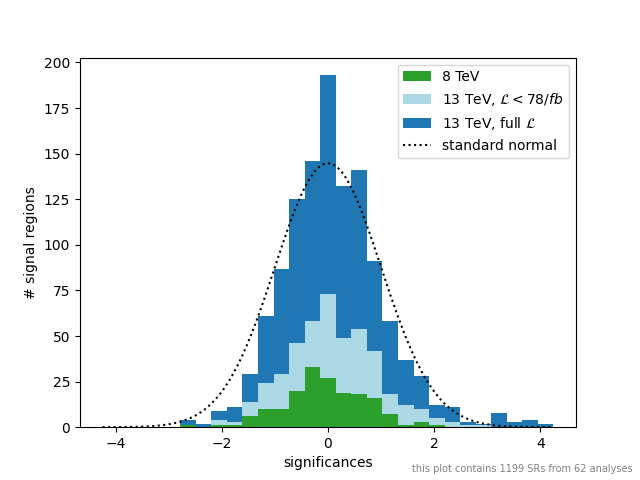
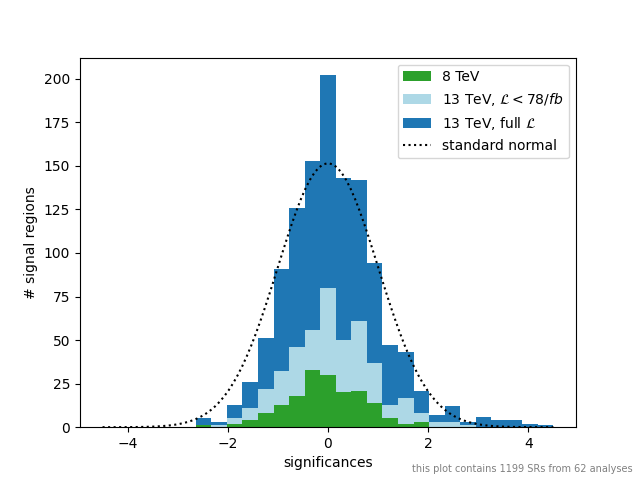
-hino not counted

diff --git a/docs/ListOfAnalysesWithSuperseded.md b/docs/ListOfAnalysesWithSuperseded.md
@@ -1,16 +1,16 @@
 # List Of Analyses 3.0.0 (including superseded and fastlim results)
-List of analyses and topologies in the SMS results database, comprising 7736 individual maps from 1529 distinct signal regions, 130 different SMS topologies, from a total of 158 analyses.
+List of analyses and topologies in the SMS results database, comprising 7736 individual maps from 1529 distinct signal regions, 130 different SMS topologies, from a total of 157 analyses.
 The list has been created from the database version `3.0.0.`
 Results from FastLim are included. There is also an  [sms dictionary](SmsDictionary) and a [validation page](Validation).
 Link to list of results [without superseded and fastlim results](ListOfAnalyses).
 
-<p align='center'><img src='../validation//significancesiss.png?1724172391.4390008' alt='plot of significances' width='400' /><br><sub>Plot: Significances with respect to the Standard Model hypothesis, for all signal regions in the database. A standard normal distribution is expected if no new physics is in the data. New physics would manifest itself as an overabundance of large (positive) significances.</sub></p>
+<p align='center'><img src='../validation//significancesiss.png?1726838792.457956' alt='plot of significances' width='400' /><br><sub>Plot: Significances with respect to the Standard Model hypothesis, for all signal regions in the database. A standard normal distribution is expected if no new physics is in the data. New physics would manifest itself as an overabundance of large (positive) significances.</sub></p>
 
 ## Stats by run, experiment, type
 
 ### Run 2 - 13 TeV
-In total, we have results from 46 ATLAS and 55 CMS 13 TeV searches.
- * [ATLAS efficiency maps](#ATLAS13): 29 analyses, 94 (of which 14 LLP) results, 1197 individual maps
+In total, we have results from 45 ATLAS and 55 CMS 13 TeV searches.
+ * [ATLAS efficiency maps](#ATLAS13): 28 analyses, 94 (of which 14 LLP) results, 1197 individual maps
  * [ATLAS upper limits](#ATLAS13): 40 analyses, 97 (of which 4 LLP) results
  * [CMS efficiency maps](#CMS13): 11 analyses, 62 results, 3555 individual maps
  * [CMS upper limits](#CMS13): 51 analyses, 199 (of which 3 LLP) results
@@ -23,7 +23,7 @@ In total, we have results from 34 ATLAS and 23 CMS 8 TeV searches.
  * [CMS upper limits](#CMS8): 21 analyses, 70 (of which 3 LLP) results
 
 <a name="ATLAS13"></a>
-## ATLAS, 13 TeV (46 analyses)
+## ATLAS, 13 TeV (45 analyses)
 
 | **ID** | **short description** | **L [1/fb]** | **Tx names** | **superseded by** | **obs. ULs** | **exp. ULs [(1)](#A1)** | **EMs** | **SR comb. [(2)](#A2)** |
 |--------|-----------------------|--------------|--------------|-------------------|--------------|-------------------------|---------|-------------------------|
@@ -42,15 +42,14 @@ In total, we have results from 34 ATLAS and 23 CMS 8 TeV searches.
 | [ATLAS-SUSY-2018-23](https://atlas.web.cern.ch/Atlas/GROUPS/PHYSICS/PAPERS/SUSY-2018-23/)<a name="ATLAS-SUSY-2018-23"></a> | W h(gamma gamma), EWK | 139.0 | [TChiHH](SmsDictionary#TChiHH), [TChiWH](SmsDictionary#TChiWH) | | &#10004; | &#10004; |  |  |
 | [ATLAS-SUSY-2018-22](https://atlas.web.cern.ch/Atlas/GROUPS/PHYSICS/PAPERS/SUSY-2018-22/)<a name="ATLAS-SUSY-2018-22"></a> | multi-jets | 139.0 | [T1](SmsDictionary#T1), [T2](SmsDictionary#T2), [T5WW](SmsDictionary#T5WW), [T5WWoff](SmsDictionary#T5WWoff), [T6WW](SmsDictionary#T6WW), [T6WWoff](SmsDictionary#T6WWoff) | | &#10004; | &#10004; | &#10004; | json |
 | [ATLAS-SUSY-2018-16](https://atlas.web.cern.ch/Atlas/GROUPS/PHYSICS/PAPERS/SUSY-2018-16/)<a name="ATLAS-SUSY-2018-16"></a> | 2 soft l + jets, EWK | 139.0 | [TChiWZoff](SmsDictionary#TChiWZoff), [TSlepSlep](SmsDictionary#TSlepSlep) | | &#10004; | &#10004; | &#10004; | json |
-| [ATLAS-SUSY-2018-16-hino](https://atlas.web.cern.ch/Atlas/GROUPS/PHYSICS/PAPERS/SUSY-2018-16/)<a name="ATLAS-SUSY-2018-16-hino"></a> | 2 soft l + jets, EWK (hino) | 139.0 | [TChiWWoff](SmsDictionary#TChiWWoff), [TChiWZoff](SmsDictionary#TChiWZoff), [TChiZoff](SmsDictionary#TChiZoff) | |  |  | &#10004; |  |
 | [ATLAS-SUSY-2018-14](https://atlas.web.cern.ch/Atlas/GROUPS/PHYSICS/PAPERS/SUSY-2018-14/)<a name="ATLAS-SUSY-2018-14"></a> | displaced vertices | 139.0 | [TSelSelDisp](SmsDictionary#TSelSelDisp), [TSmuSmuDisp](SmsDictionary#TSmuSmuDisp), [TStauStauDisp](SmsDictionary#TStauStauDisp) | |  |  | &#10004; | json |
 | [ATLAS-SUSY-2018-13](https://atlas.web.cern.ch/Atlas/GROUPS/PHYSICS/PAPERS/SUSY-2018-13/)<a name="ATLAS-SUSY-2018-13"></a> | displaced jets | 139.0 | [TRPV1jjj](SmsDictionary#TRPV1jjj), [TRPVChijjj](SmsDictionary#TRPVChijjj) | |  |  | &#10004; | SLv1 |
 | [ATLAS-SUSY-2018-12](https://atlas.web.cern.ch/Atlas/GROUPS/PHYSICS/PAPERS/SUSY-2018-12/)<a name="ATLAS-SUSY-2018-12"></a> | 0 l + jets | 139.0 | [T2bbffff](SmsDictionary#T2bbffff), [T2tt](SmsDictionary#T2tt), [T2ttoff](SmsDictionary#T2ttoff) | | &#10004; | &#10004; | &#10004; |  |
 | [ATLAS-SUSY-2018-10](https://atlas.web.cern.ch/Atlas/GROUPS/PHYSICS/PAPERS/SUSY-2018-10/)<a name="ATLAS-SUSY-2018-10"></a> | 1 l + jets | 139.0 | [T5WW](SmsDictionary#T5WW), [T5WWoff](SmsDictionary#T5WWoff), [T6WW](SmsDictionary#T6WW), [T6WWoff](SmsDictionary#T6WWoff) | | &#10004; | &#10004; | &#10004; |  |
 | [ATLAS-SUSY-2018-09](https://atlas.web.cern.ch/Atlas/GROUPS/PHYSICS/PAPERS/SUSY-2018-09/)<a name="ATLAS-SUSY-2018-09"></a> | 2 SS l | 139.0 | [T6ttWW](SmsDictionary#T6ttWW), [TRPV5tjb](SmsDictionary#TRPV5tjb) | | &#10004; | &#10004; |  |  |
 | [ATLAS-SUSY-2018-08](https://atlas.web.cern.ch/Atlas/GROUPS/PHYSICS/PAPERS/SUSY-2018-08/)<a name="ATLAS-SUSY-2018-08"></a> | 2 OS l | 139.0 | [T2bbffff](SmsDictionary#T2bbffff), [T2tt](SmsDictionary#T2tt), [T2ttoff](SmsDictionary#T2ttoff) | | &#10004; | &#10004; | &#10004; |  |
-| [ATLAS-SUSY-2018-06](https://atlas.web.cern.ch/Atlas/GROUPS/PHYSICS/PAPERS/SUSY-2018-06/)<a name="ATLAS-SUSY-2018-06"></a> | 3 l, EWK | 139.0 | [TChiWZ](SmsDictionary#TChiWZ), [TChiWZoff](SmsDictionary#TChiWZoff) | | &#10004; | &#10004; | &#10004; |  |
 | [ATLAS-EXOT-2018-06](https://atlas.web.cern.ch/Atlas/GROUPS/PHYSICS/PAPERS/EXOT-2018-06/)<a name="ATLAS-EXOT-2018-06"></a> | monojet | 139.0 | [TRV1](SmsDictionary#TRV1) | | &#10004; | &#10004; |  |  |
+| [ATLAS-SUSY-2018-06](https://atlas.web.cern.ch/Atlas/GROUPS/PHYSICS/PAPERS/SUSY-2018-06/)<a name="ATLAS-SUSY-2018-06"></a> | 3 l, EWK | 139.0 | [TChiWZ](SmsDictionary#TChiWZ), [TChiWZoff](SmsDictionary#TChiWZoff) | | &#10004; | &#10004; | &#10004; |  |
 | [ATLAS-SUSY-2018-05](https://atlas.web.cern.ch/Atlas/GROUPS/PHYSICS/PAPERS/SUSY-2018-05/)<a name="ATLAS-SUSY-2018-05"></a> | 2 l + jets | 139.0 | [T5ZZ](SmsDictionary#T5ZZ), [T6ZZ](SmsDictionary#T6ZZ), [TChiWZ](SmsDictionary#TChiWZ), [TChiWZoff](SmsDictionary#TChiWZoff) | | &#10004; | &#10004; | &#10004; | json |
 | [ATLAS-SUSY-2018-04](https://atlas.web.cern.ch/Atlas/GROUPS/PHYSICS/PAPERS/SUSY-2018-04/)<a name="ATLAS-SUSY-2018-04"></a> | 2 hadronic taus | 139.0 | [TStauStau](SmsDictionary#TStauStau) | | &#10004; | &#10004; | &#10004; | json |
 | [ATLAS-SUSY-2017-03](https://atlas.web.cern.ch/Atlas/GROUPS/PHYSICS/PAPERS/SUSY-2017-03/)<a name="ATLAS-SUSY-2017-03"></a> | multi-l EWK | 36.1 | [TChiWZ](SmsDictionary#TChiWZ) | | &#10004; | &#10004; | &#10004; |  |
@@ -84,8 +83,8 @@ In total, we have results from 34 ATLAS and 23 CMS 8 TeV searches.
 | [CMS-SUS-21-007](http://cms-results.web.cern.ch/cms-results/public-results/publications/SUS-21-007/index.html)<a name="CMS-SUS-21-007"></a> | 1 l + top- or W-tag | 138.0 | [T1tttt](SmsDictionary#T1tttt), [T5WW](SmsDictionary#T5WW) | | &#10004; | &#10004; |  |  |
 | [CMS-SUS-21-002](http://cms-results.web.cern.ch/cms-results/public-results/publications/SUS-21-002/)<a name="CMS-SUS-21-002"></a> | hadr. EWK | 137.0 | [TChiWH](SmsDictionary#TChiWH), [TChiWW](SmsDictionary#TChiWW), [TChiWZ](SmsDictionary#TChiWZ), [TChiZH](SmsDictionary#TChiZH) | | &#10004; | &#10004; | &#10004; | SLv1 |
 | [CMS-EXO-20-008](https://cms-results.web.cern.ch/cms-results/public-results/publications/EXO-20-008/index.html)<a name="CMS-EXO-20-008"></a> | di-b resonance | 138.0 | [TRV1bb](SmsDictionary#TRV1bb) | | &#10004; | &#10004; |  |  |
-| [CMS-EXO-20-004](http://cms-results.web.cern.ch/cms-results/public-results/publications/EXO-20-004/)<a name="CMS-EXO-20-004"></a> | monojet | 137.0 | [TRS1](SmsDictionary#TRS1), [TRV1](SmsDictionary#TRV1) | |  |  | &#10004; | SLv1 |
 | [CMS-SUS-20-004](http://cms-results.web.cern.ch/cms-results/public-results/publications/SUS-20-004/)<a name="CMS-SUS-20-004"></a> | 2 h(b b), EWK | 137.0 | [T5HH](SmsDictionary#T5HH), [TChiHH](SmsDictionary#TChiHH) | | &#10004; | &#10004; | &#10004; | SLv2 |
+| [CMS-EXO-20-004](http://cms-results.web.cern.ch/cms-results/public-results/publications/EXO-20-004/)<a name="CMS-EXO-20-004"></a> | monojet | 137.0 | [TRS1](SmsDictionary#TRS1), [TRV1](SmsDictionary#TRV1) | |  |  | &#10004; | SLv1 |
 | [CMS-SUS-20-002](http://cms-results.web.cern.ch/cms-results/public-results/publications/SUS-20-002/index.html)<a name="CMS-SUS-20-002"></a> | stop combination | 137.0 | [T2tt](SmsDictionary#T2tt), [T2ttoff](SmsDictionary#T2ttoff), [T6bbWW](SmsDictionary#T6bbWW) | | &#10004; | &#10004; |  |  |
 | [CMS-SUS-20-001](http://cms-results.web.cern.ch/cms-results/public-results/publications/SUS-20-001/index.html)<a name="CMS-SUS-20-001"></a> | SFOS l | 137.0 | [T5ZZ](SmsDictionary#T5ZZ), [TChiWZ](SmsDictionary#TChiWZ), [TChiZZ](SmsDictionary#TChiZZ), [TSlepSlep](SmsDictionary#TSlepSlep) | | &#10004; | &#10004; |  |  |
 | [CMS-SUS-19-013](http://cms-results.web.cern.ch/cms-results/public-results/publications/SUS-19-013/index.html)<a name="CMS-SUS-19-013"></a> | jets + boosted Z | 137.0 | [T5ZZ](SmsDictionary#T5ZZ) | | &#10004; | &#10004; |  |  |
@@ -153,8 +152,8 @@ In total, we have results from 34 ATLAS and 23 CMS 8 TeV searches.
 | [ATLAS-SUSY-2013-16](https://atlas.web.cern.ch/Atlas/GROUPS/PHYSICS/PAPERS/SUSY-2013-16/)<a name="ATLAS-SUSY-2013-16"></a> | 0 l + 6 (2 b-)jets | 20.1 | [T2tt](SmsDictionary#T2tt) | | &#10004; | &#10004; | &#10004; |  |
 | [ATLAS-SUSY-2013-15](https://atlas.web.cern.ch/Atlas/GROUPS/PHYSICS/PAPERS/SUSY-2013-15/)<a name="ATLAS-SUSY-2013-15"></a> | 1 l + 4 (1 b-)jets | 20.3 | [T2tt](SmsDictionary#T2tt) | | &#10004; | &#10004; | &#10004; |  |
 | [ATLAS-SUSY-2013-12](https://atlas.web.cern.ch/Atlas/GROUPS/PHYSICS/PAPERS/SUSY-2013-12/)<a name="ATLAS-SUSY-2013-12"></a> | 3 l (e,mu,tau), EWK | 20.3 | [TChiChipmSlepL](SmsDictionary#TChiChipmSlepL), [TChiChipmStauL](SmsDictionary#TChiChipmStauL), [TChiWH](SmsDictionary#TChiWH), [TChiWZ](SmsDictionary#TChiWZ), [TChiWZoff](SmsDictionary#TChiWZoff) | | &#10004; | &#10004; | &#10004; |  |
-| [ATLAS-SUSY-2013-11](https://atlas.web.cern.ch/Atlas/GROUPS/PHYSICS/PAPERS/SUSY-2013-11/)<a name="ATLAS-SUSY-2013-11"></a> | 2 l (e,mu), EWK | 20.3 | [TChiWW](SmsDictionary#TChiWW) [(3)](#A3), [TChiWZ](SmsDictionary#TChiWZ), [TChipChimSlepSnu](SmsDictionary#TChipChimSlepSnu) [(3)](#A3), [TSlepSlep](SmsDictionary#TSlepSlep) [(3)](#A3) | | &#10004; | &#10004; | &#10004; |  |
 | [ATLAS-EXOT-2013-11](https://atlas.web.cern.ch/Atlas/GROUPS/PHYSICS/PAPERS/EXOT-2013-11)<a name="ATLAS-EXOT-2013-11"></a> | dijets | 20.3 | [TRV1qq](SmsDictionary#TRV1qq) | | &#10004; | &#10004; |  |  |
+| [ATLAS-SUSY-2013-11](https://atlas.web.cern.ch/Atlas/GROUPS/PHYSICS/PAPERS/SUSY-2013-11/)<a name="ATLAS-SUSY-2013-11"></a> | 2 l (e,mu), EWK | 20.3 | [TChiWW](SmsDictionary#TChiWW) [(3)](#A3), [TChiWZ](SmsDictionary#TChiWZ), [TChipChimSlepSnu](SmsDictionary#TChipChimSlepSnu) [(3)](#A3), [TSlepSlep](SmsDictionary#TSlepSlep) [(3)](#A3) | | &#10004; | &#10004; | &#10004; |  |
 | [ATLAS-SUSY-2013-09](https://atlas.web.cern.ch/Atlas/GROUPS/PHYSICS/PAPERS/SUSY-2013-09/)<a name="ATLAS-SUSY-2013-09"></a> | 2 SS l + 0-3 b-jets | 20.3 | [T1tttt](SmsDictionary#T1tttt), [T5WW](SmsDictionary#T5WW), [T5tctc](SmsDictionary#T5tctc) | | &#10004; | &#10004; | &#10004; |  |
 | [ATLAS-SUSY-2013-08](https://atlas.web.cern.ch/Atlas/GROUPS/PHYSICS/PAPERS/SUSY-2013-08/)<a name="ATLAS-SUSY-2013-08"></a> | Z(l l) + b-jets | 20.3 | [T6ZZtt](SmsDictionary#T6ZZtt) | | &#10004; | &#10004; |  |  |
 | [ATLAS-SUSY-2013-05](https://atlas.web.cern.ch/Atlas/GROUPS/PHYSICS/PAPERS/SUSY-2013-05/)<a name="ATLAS-SUSY-2013-05"></a> | 0 l + 2 b-jets | 20.1 | [T2bb](SmsDictionary#T2bb) [(3)](#A3), [T6bbWW](SmsDictionary#T6bbWW), [T6bbWWoff](SmsDictionary#T6bbWWoff) | | &#10004; | &#10004; | &#10004; |  |
@@ -223,4 +222,4 @@ In total, we have results from 34 ATLAS and 23 CMS 8 TeV searches.
 <a name='A5'>(5)</a> Please note that by default we discard zeroes-only results from FastLim. To remain firmly conservative, we consider efficiencies with relative statistical uncertainties > 25% to be zero.
 
 
-This page was created Tue Aug 20 18:46:31 2024.
+This page was created Fri Sep 20 15:26:32 2024.

diff --git a/docs/ListOfAnalyses.md b/docs/ListOfAnalyses.md
@@ -1,16 +1,16 @@
 # List Of Analyses 3.0.0 
-List of analyses and topologies in the SMS results database, comprising 6349 individual maps from 1430 distinct signal regions, 117 different SMS topologies, from a total of 126 analyses.
+List of analyses and topologies in the SMS results database, comprising 6349 individual maps from 1430 distinct signal regions, 117 different SMS topologies, from a total of 125 analyses.
 The list has been created from the database version `3.0.0.`
 There is also an  [sms dictionary](SmsDictionary) and a [validation page](Validation).
 Link to list of results [including superseded and fastlim results](ListOfAnalysesWithSuperseded).
 
-<p align='center'><img src='../validation//significances.png?1724172496.369182' alt='plot of significances' width='400' /><br><sub>Plot: Significances with respect to the Standard Model hypothesis, for all signal regions in the database. A standard normal distribution is expected if no new physics is in the data. New physics would manifest itself as an overabundance of large (positive) significances.</sub></p>
+<p align='center'><img src='../validation//significances.png?1726838928.4340682' alt='plot of significances' width='400' /><br><sub>Plot: Significances with respect to the Standard Model hypothesis, for all signal regions in the database. A standard normal distribution is expected if no new physics is in the data. New physics would manifest itself as an overabundance of large (positive) significances.</sub></p>
 
 ## Stats by run, experiment, type
 
 ### Run 2 - 13 TeV
-In total, we have results from 46 ATLAS and 44 CMS 13 TeV searches.
- * [ATLAS efficiency maps](#ATLAS13): 29 analyses, 94 (of which 14 LLP) results, 1197 individual maps
+In total, we have results from 45 ATLAS and 44 CMS 13 TeV searches.
+ * [ATLAS efficiency maps](#ATLAS13): 28 analyses, 94 (of which 14 LLP) results, 1197 individual maps
  * [ATLAS upper limits](#ATLAS13): 40 analyses, 97 (of which 4 LLP) results
  * [CMS efficiency maps](#CMS13): 11 analyses, 62 results, 3555 individual maps
  * [CMS upper limits](#CMS13): 40 analyses, 153 (of which 3 LLP) results
@@ -23,7 +23,7 @@ In total, we have results from 16 ATLAS and 20 CMS 8 TeV searches.
  * [CMS upper limits](#CMS8): 18 analyses, 58 (of which 3 LLP) results
 
 <a name="ATLAS13"></a>
-## ATLAS, 13 TeV (46 analyses)
+## ATLAS, 13 TeV (45 analyses)
 
 | **ID** | **short description** | **L [1/fb]** | **Tx names** | **obs. ULs** | **exp. ULs [(1)](#A1)** | **EMs** | **SR comb. [(2)](#A2)** |
 |--------|-----------------------|--------------|--------------|--------------|-------------------------|---------|-------------------------|
@@ -41,7 +41,6 @@ In total, we have results from 16 ATLAS and 20 CMS 8 TeV searches.
 | [ATLAS-SUSY-2018-31](https://atlas.web.cern.ch/Atlas/GROUPS/PHYSICS/PAPERS/SUSY-2018-31/)<a name="ATLAS-SUSY-2018-31"></a> | 2 b-jets + 2 h(tau tau) | 139.0 | [T6bbHH](SmsDictionary#T6bbHH) | &#10004; | &#10004; | &#10004; | json |
 | [ATLAS-SUSY-2018-23](https://atlas.web.cern.ch/Atlas/GROUPS/PHYSICS/PAPERS/SUSY-2018-23/)<a name="ATLAS-SUSY-2018-23"></a> | W h(gamma gamma), EWK | 139.0 | [TChiHH](SmsDictionary#TChiHH), [TChiWH](SmsDictionary#TChiWH) | &#10004; | &#10004; |  |  |
 | [ATLAS-SUSY-2018-22](https://atlas.web.cern.ch/Atlas/GROUPS/PHYSICS/PAPERS/SUSY-2018-22/)<a name="ATLAS-SUSY-2018-22"></a> | multi-jets | 139.0 | [T1](SmsDictionary#T1), [T2](SmsDictionary#T2), [T5WW](SmsDictionary#T5WW), [T5WWoff](SmsDictionary#T5WWoff), [T6WW](SmsDictionary#T6WW), [T6WWoff](SmsDictionary#T6WWoff) | &#10004; | &#10004; | &#10004; | json |
-| [ATLAS-SUSY-2018-16-hino](https://atlas.web.cern.ch/Atlas/GROUPS/PHYSICS/PAPERS/SUSY-2018-16/)<a name="ATLAS-SUSY-2018-16-hino"></a> | 2 soft l + jets, EWK (hino) | 139.0 | [TChiWWoff](SmsDictionary#TChiWWoff), [TChiWZoff](SmsDictionary#TChiWZoff), [TChiZoff](SmsDictionary#TChiZoff) |  |  | &#10004; |  |
 | [ATLAS-SUSY-2018-16](https://atlas.web.cern.ch/Atlas/GROUPS/PHYSICS/PAPERS/SUSY-2018-16/)<a name="ATLAS-SUSY-2018-16"></a> | 2 soft l + jets, EWK | 139.0 | [TChiWZoff](SmsDictionary#TChiWZoff), [TSlepSlep](SmsDictionary#TSlepSlep) | &#10004; | &#10004; | &#10004; | json |
 | [ATLAS-SUSY-2018-14](https://atlas.web.cern.ch/Atlas/GROUPS/PHYSICS/PAPERS/SUSY-2018-14/)<a name="ATLAS-SUSY-2018-14"></a> | displaced vertices | 139.0 | [TSelSelDisp](SmsDictionary#TSelSelDisp), [TSmuSmuDisp](SmsDictionary#TSmuSmuDisp), [TStauStauDisp](SmsDictionary#TStauStauDisp) |  |  | &#10004; | json |
 | [ATLAS-SUSY-2018-13](https://atlas.web.cern.ch/Atlas/GROUPS/PHYSICS/PAPERS/SUSY-2018-13/)<a name="ATLAS-SUSY-2018-13"></a> | displaced jets | 139.0 | [TRPV1jjj](SmsDictionary#TRPV1jjj), [TRPVChijjj](SmsDictionary#TRPVChijjj) |  |  | &#10004; | SLv1 |
@@ -84,15 +83,15 @@ In total, we have results from 16 ATLAS and 20 CMS 8 TeV searches.
 | [CMS-SUS-21-007](http://cms-results.web.cern.ch/cms-results/public-results/publications/SUS-21-007/index.html)<a name="CMS-SUS-21-007"></a> | 1 l + top- or W-tag | 138.0 | [T1tttt](SmsDictionary#T1tttt), [T5WW](SmsDictionary#T5WW) | &#10004; | &#10004; |  |  |
 | [CMS-SUS-21-002](http://cms-results.web.cern.ch/cms-results/public-results/publications/SUS-21-002/)<a name="CMS-SUS-21-002"></a> | hadr. EWK | 137.0 | [TChiWH](SmsDictionary#TChiWH), [TChiWW](SmsDictionary#TChiWW), [TChiWZ](SmsDictionary#TChiWZ), [TChiZH](SmsDictionary#TChiZH) | &#10004; | &#10004; | &#10004; | SLv1 |
 | [CMS-EXO-20-008](https://cms-results.web.cern.ch/cms-results/public-results/publications/EXO-20-008/index.html)<a name="CMS-EXO-20-008"></a> | di-b resonance | 138.0 | [TRV1bb](SmsDictionary#TRV1bb) | &#10004; | &#10004; |  |  |
-| [CMS-EXO-20-004](http://cms-results.web.cern.ch/cms-results/public-results/publications/EXO-20-004/)<a name="CMS-EXO-20-004"></a> | monojet | 137.0 | [TRS1](SmsDictionary#TRS1), [TRV1](SmsDictionary#TRV1) |  |  | &#10004; | SLv1 |
 | [CMS-SUS-20-004](http://cms-results.web.cern.ch/cms-results/public-results/publications/SUS-20-004/)<a name="CMS-SUS-20-004"></a> | 2 h(b b), EWK | 137.0 | [T5HH](SmsDictionary#T5HH), [TChiHH](SmsDictionary#TChiHH) | &#10004; | &#10004; | &#10004; | SLv2 |
+| [CMS-EXO-20-004](http://cms-results.web.cern.ch/cms-results/public-results/publications/EXO-20-004/)<a name="CMS-EXO-20-004"></a> | monojet | 137.0 | [TRS1](SmsDictionary#TRS1), [TRV1](SmsDictionary#TRV1) |  |  | &#10004; | SLv1 |
 | [CMS-SUS-20-002](http://cms-results.web.cern.ch/cms-results/public-results/publications/SUS-20-002/index.html)<a name="CMS-SUS-20-002"></a> | stop combination | 137.0 | [T2tt](SmsDictionary#T2tt), [T2ttoff](SmsDictionary#T2ttoff), [T6bbWW](SmsDictionary#T6bbWW) | &#10004; | &#10004; |  |  |
 | [CMS-SUS-20-001](http://cms-results.web.cern.ch/cms-results/public-results/publications/SUS-20-001/index.html)<a name="CMS-SUS-20-001"></a> | SFOS l | 137.0 | [T5ZZ](SmsDictionary#T5ZZ), [TChiWZ](SmsDictionary#TChiWZ), [TChiZZ](SmsDictionary#TChiZZ), [TSlepSlep](SmsDictionary#TSlepSlep) | &#10004; | &#10004; |  |  |
 | [CMS-SUS-19-013](http://cms-results.web.cern.ch/cms-results/public-results/publications/SUS-19-013/index.html)<a name="CMS-SUS-19-013"></a> | jets + boosted Z | 137.0 | [T5ZZ](SmsDictionary#T5ZZ) | &#10004; | &#10004; |  |  |
 | [CMS-EXO-19-012](https://cms-results.web.cern.ch/cms-results/public-results/publications/EXO-19-012/index.html)<a name="CMS-EXO-19-012"></a> | dijet resonance | 137.0 | [TRV1jj](SmsDictionary#TRV1jj) | &#10004; | &#10004; |  |  |
 | [CMS-SUS-19-011](http://cms-results.web.cern.ch/cms-results/public-results/publications/SUS-19-011/index.html)<a name="CMS-SUS-19-011"></a> | 2 l stop | 137.0 | [T2tt](SmsDictionary#T2tt), [T2ttoff](SmsDictionary#T2ttoff), [T6bbWW](SmsDictionary#T6bbWW) | &#10004; | &#10004; |  |  |
-| [CMS-SUS-19-010](http://cms-results.web.cern.ch/cms-results/public-results/publications/SUS-19-010/index.html)<a name="CMS-SUS-19-010"></a> | jets + top- and W-tag | 137.0 | [T1tttt](SmsDictionary#T1tttt), [T1ttttoff](SmsDictionary#T1ttttoff), [T2cc](SmsDictionary#T2cc), [T2tt](SmsDictionary#T2tt), [T2ttC](SmsDictionary#T2ttC), [T2ttoff](SmsDictionary#T2ttoff), [T5tctc](SmsDictionary#T5tctc), [T6bbWW](SmsDictionary#T6bbWW), [T6bbWWoff](SmsDictionary#T6bbWWoff) | &#10004; | &#10004; |  |  |
 | [CMS-EXO-19-010](http://cms-results.web.cern.ch/cms-results/public-results/publications/EXO-19-010/)<a name="CMS-EXO-19-010"></a> | disappearing track | 101.0 | [TDTM1F](SmsDictionary#TDTM1F), [TDTM2F](SmsDictionary#TDTM2F) |  |  | &#10004; |  |
+| [CMS-SUS-19-010](http://cms-results.web.cern.ch/cms-results/public-results/publications/SUS-19-010/index.html)<a name="CMS-SUS-19-010"></a> | jets + top- and W-tag | 137.0 | [T1tttt](SmsDictionary#T1tttt), [T1ttttoff](SmsDictionary#T1ttttoff), [T2cc](SmsDictionary#T2cc), [T2tt](SmsDictionary#T2tt), [T2ttC](SmsDictionary#T2ttC), [T2ttoff](SmsDictionary#T2ttoff), [T5tctc](SmsDictionary#T5tctc), [T6bbWW](SmsDictionary#T6bbWW), [T6bbWWoff](SmsDictionary#T6bbWWoff) | &#10004; | &#10004; |  |  |
 | [CMS-SUS-19-009](http://cms-results.web.cern.ch/cms-results/public-results/publications/SUS-19-009/index.html)<a name="CMS-SUS-19-009"></a> | 1 l + jets, MHT | 137.0 | [T2tt](SmsDictionary#T2tt), [T2ttoff](SmsDictionary#T2ttoff), [T6bbWW](SmsDictionary#T6bbWW) | &#10004; | &#10004; |  |  |
 | [CMS-SUS-19-008](http://cms-results.web.cern.ch/cms-results/public-results/publications/SUS-19-008/index.html)<a name="CMS-SUS-19-008"></a> | 2-3 l + jets | 137.0 | [T1tttt](SmsDictionary#T1tttt), [T1ttttoff](SmsDictionary#T1ttttoff), [T5WW](SmsDictionary#T5WW), [T5WZ](SmsDictionary#T5WZ), [T5tctc](SmsDictionary#T5tctc), [T5tttt](SmsDictionary#T5tttt) | &#10004; | &#10004; |  |  |
 | [CMS-SUS-19-006](http://cms-results.web.cern.ch/cms-results/public-results/publications/SUS-19-006/index.html)<a name="CMS-SUS-19-006"></a> | 0 l + jets, MHT | 137.0 | [T1](SmsDictionary#T1) [(4)](#A4), [T1bbbb](SmsDictionary#T1bbbb) [(4)](#A4), [T1tttt](SmsDictionary#T1tttt) [(4)](#A4), [T1ttttoff](SmsDictionary#T1ttttoff) [(4)](#A4), [T2](SmsDictionary#T2) [(4)](#A4), [T2bb](SmsDictionary#T2bb) [(4)](#A4), [T2tt](SmsDictionary#T2tt) [(4)](#A4), [T2ttoff](SmsDictionary#T2ttoff) [(4)](#A4) | &#10004; | &#10004; | &#10004; | SLv1 |
@@ -188,4 +187,4 @@ In total, we have results from 16 ATLAS and 20 CMS 8 TeV searches.
 <a name='A4'>(4)</a> Aggregated result; the results are the public ones, but aggregation is done by the SModelS collaboration.
 
 
-This page was created Tue Aug 20 18:48:16 2024.
+This page was created Fri Sep 20 15:28:48 2024.
